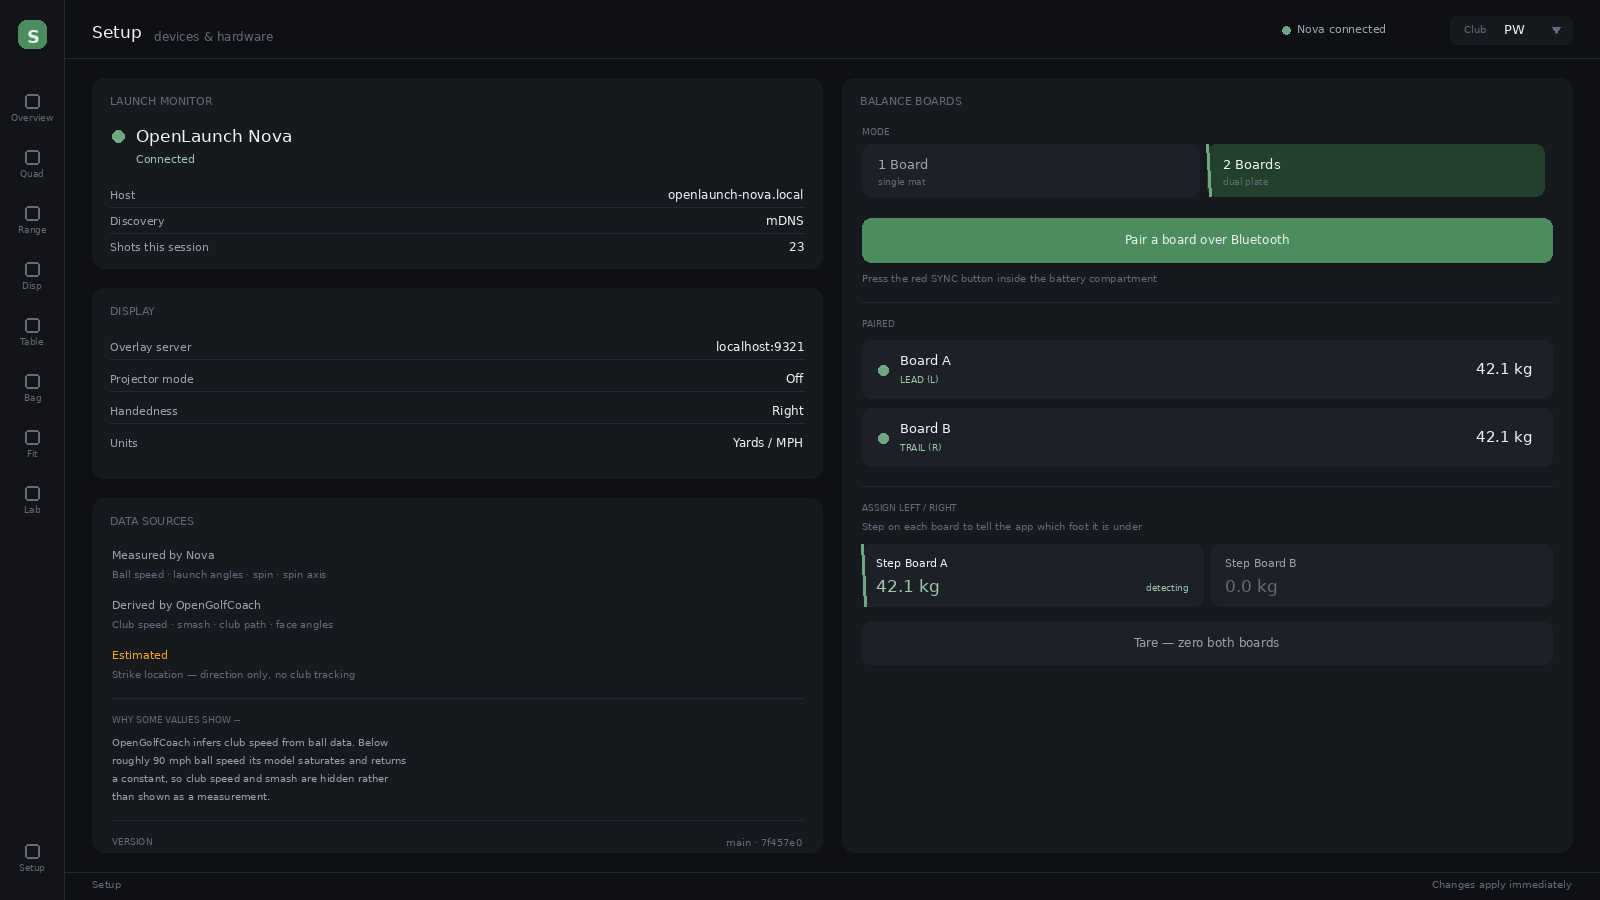
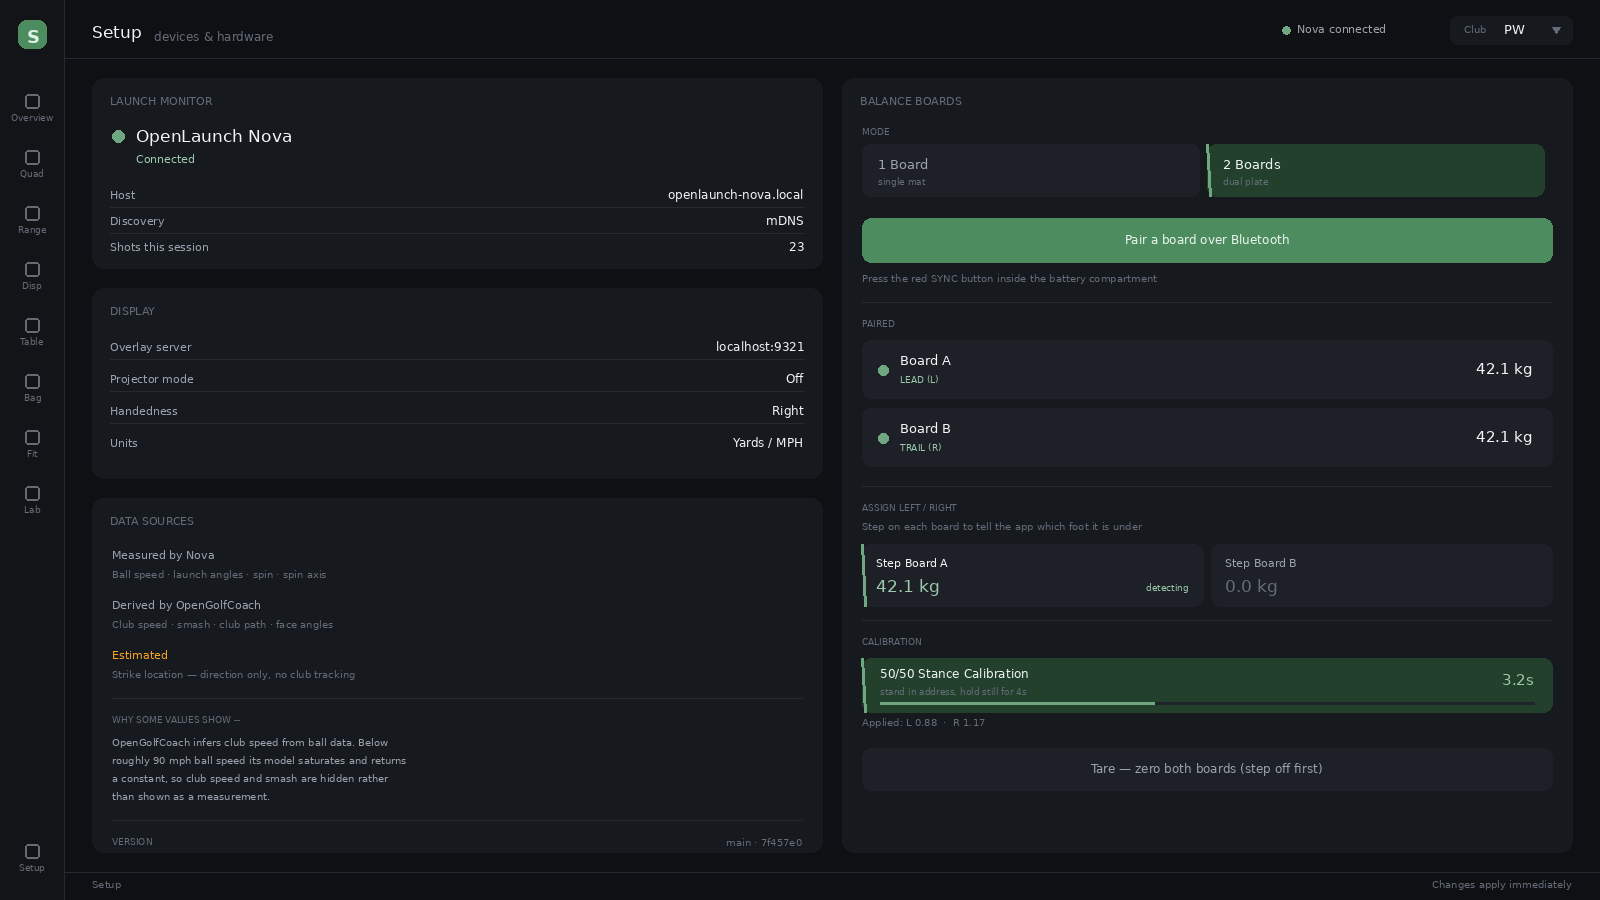
docs(ui): add 50/50 stance calibration to the Setup mockup
Missed when the Setup view was drawn. balance_modal_align_rect ->
start_stance_alignment(duration_sec=4.0) is a separate operation from tare
and the mockup only had tare.

The distinction matters and the UI now states it: tare zeroes an EMPTY
board (step off first), while 50/50 calibration corrects the left/right
split while the user STANDS in address, fixing boards that read unevenly
against each other. Conflating them gives a user a plausible reason to run
the wrong one and get a worse baseline than they started with.

Shown with the live state the handler already produces: 4s countdown,
progress bar, and the resulting balance_multiplier values, which are
persisted via _save_calibration().

Also noted in the README that src/processing/pressure/stance.py
(StanceCalibrator -- shift left, then right, to measure stance WIDTH) is a
third distinct calibration and is currently not wired to any UI.

Changed region(s): [[0.5312, 0.7156, 0.9688, 0.8089], [0.7188, 0.84, 0.8125, 0.8711]]

diff --git a/docs/ui/README.md b/docs/ui/README.md
@@ -116,8 +116,20 @@ Lab via a small "⚙ Hardware" button, which is hard to find when the thing you
 are trying to do is connect a board for the first time. This promotes it to
 the rail's Setup slot and keeps every capability of the existing modal:
 single/dual mode toggle, Bluetooth pairing, the step-on left/right assignment
-wizard with live per-board kg, and tare. Nothing is removed — it is laid out
-rather than stacked in a modal.
+wizard with live per-board kg, 50/50 stance calibration, and tare. Nothing is
+removed — it is laid out rather than stacked in a modal.
+
+The two calibrations are distinct and the UI has to make that obvious:
+**tare** zeroes an *empty* board (step off first), while **50/50 stance
+calibration** corrects the left/right split while the user *stands in
+address*, solving boards that read unevenly against each other. The latter
+runs `start_stance_alignment(duration_sec=4.0)` and produces
+`balance_multiplier`, which is persisted — so the view shows the live
+countdown, a progress bar, and the applied multipliers.
+
+Note `src/processing/pressure/stance.py` (`StanceCalibrator`, shift-left
+then shift-right to measure stance *width*) is a third, separate thing and
+is currently not wired to any UI.
 
 ## Build order
 
